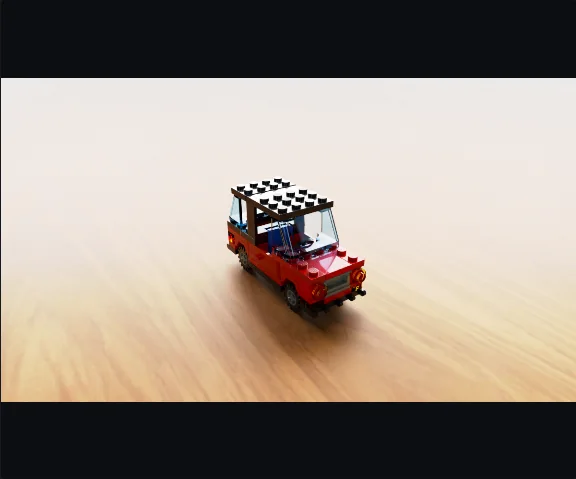
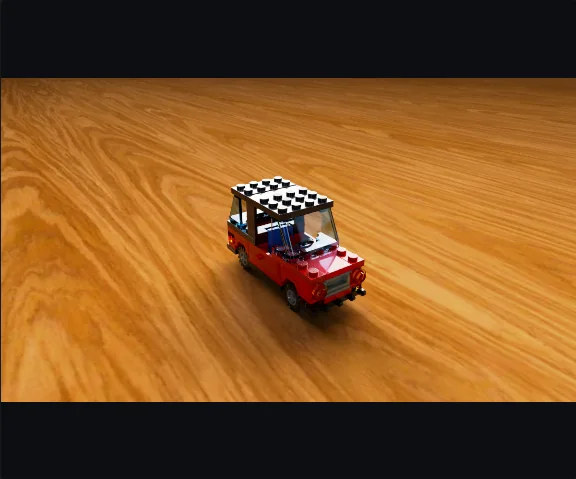
The render page, its table picture and RENDERING.md say the table keeps its colour, and why it paled
The page's words and picture said the table pales towards the light. That was the bug, now fixed, so
the picture is taken again from the app and the words say the wood, leather and terrazzo keep their
colour. RENDERING.md 5r records the proof: meter and white balance ruled out, the table's glare the
cause. The verify recipe names the colour check source_probe now makes.

diff --git a/docs/RENDERING.md b/docs/RENDERING.md
@@ -2303,15 +2303,30 @@ it over its measured mismatch on grey (+4.5 stops against +0.95): matching
 the numbers is not what the judge rewards. The thinner logo (strokes
 with gaps between the letters, one gate a part) was read as outlined lettering and taken out.
 
-**What is left.** A table drawn this way pales towards the source, most on
-the whole car at the app's camera (bench/results/photoreal14-2026-11-23/
-probes/source_pair). Likely, not yet proven by a run: the white card
-is metered round the model, in its shade when lit from behind, so the
-picture is exposed up and the table, drawn at its own colour, goes
-towards white. The photographs keep their
-tables at their own level. The light-and-shadow tell is still named on
-92% of verdicts and 28 of 80 is short of 32: the next lever is the
-metering with the source on (`StudioRender._meter_card`).
+**The table kept its colour** (photoreal14b). Drawn first, the tables paled
+towards the source, most on the whole car at the app's camera: wood and
+terrazzo nearly white. Proved by the app's own renderer, the car on each
+table at 1280x720 and 256 samples, five ways (bench/results/
+photoreal14-2026-11-23/spill/): not the white balance (off, nothing moved:
+within 0.3), not the meter (its exposure and card colour the same whether
+the table mirrors the source or not), but the table's own gloss. The white
+card the exposure is metered on is matte, so a table mirroring a 90 by 50
+degree source was brighter than the card says white is: its glare as bright
+again as its own colour. Schlick's glance term kept it even with the
+table's specular at 0, so the table now takes only the source's diffuse
+light, and the bounce leaves the source to the light's pick for it
+(`on_table`, `SOURCE_SPILL` 0). At the meter's own level, the table's
+colour is within CIEDE2000 4.6, 6.7, 3.5 and 3.9 of the source off (desk,
+wood, leather, terrazzo; 7.4, 29, 39 and 30 mirrored), and a black brick's
+top still mirrors it: +7.45 stops over its side, +7.42 in the photograph.
+Beside the car on the side its lamp stands, the source-off picture is
+brighter than its own colour, in a pool of the lamp's light; a table lit by
+the source has no pool, so a patch there is darker than off (CIEDE2000 desk
+5.1, wood 16.5, terrazzo 16.7, leather 20.3). The judge's pools above were drawn with the table
+mirroring the source.
+
+The light-and-shadow tell is still named on 92% of verdicts, and 28 of 80
+is short of 32.
 
 ## 6. Web and desktop
 

diff --git a/docs-site/render.md b/docs-site/render.md
@@ -73,9 +73,9 @@ Under **Background**, the model can stand on something real rather than a studio
 
 At Best, in the Product look, a staged picture is lit as a photograph is: by a soft light standing near the model rather than far away, so the side nearer it is lighter and the surface darkens away from it. The wood, the leather and the terrazzo show their own grain, the model's shadow falls on it, and past a table's far edge is the room, out of focus.
 
-![The car rendered at Best in the Product look on a wooden table, path traced and lit from behind as by a window: the black studs on its roof catch white highlights, its shadow falls forward onto the grain, and the table pales towards the back.](/docs/img/render-table.webp "On a wooden table at Best: lit from behind, as by a window, so glossy tops shine as a photograph's do.")
+![The car rendered at Best in the Product look on a wooden table, path traced and lit from behind as by a window: the black studs on its roof catch white highlights, its shadow falls forward onto the grain, and the wood keeps its own colour.](/docs/img/render-table.webp "On a wooden table at Best: lit from behind, as by a window, so glossy tops shine as a photograph's do.")
 
-On a desk, a table, a leather pad or terrazzo, a large bright light stands behind the model, as a window or a softbox behind a photographed model does. Glossy tops mirror it, so a black brick's top shines nearly white while its sides stay dark, the way they do in a photograph. It rises with the camera, so a top seen from high up still catches it, and the table pales towards it as a backlit table does. On the seamless paper the studio's own lights are kept.
+On a desk, a table, a leather pad or terrazzo, a large bright light stands behind the model, as a window or a softbox behind a photographed model does. Glossy tops mirror it, so a black brick's top shines nearly white while its sides stay dark, the way they do in a photograph. It rises with the camera, so a top seen from high up still catches it. It lights the table without shining in it, so the wood, the leather and the terrazzo keep their own colour. On the seamless paper the studio's own lights are kept.
 
 In a browser, and wherever Best is not path traced, a staged picture is drawn on the stage's colour alone.
 

diff --git a/.claude/skills/verify/features/view.md b/.claude/skills/verify/features/view.md
@@ -3323,12 +3323,17 @@ picture the assistant is shown.
   none in the tent. A way towards it passes the sweep (path_tracer.glsl
   `lit_mask`), as a softbox stands in front of the paper. Judged alone beside
   the photographs: 28 of 80 called a photograph against 19 with it off, the
-  close-ups 0.515 against 0.394, both draws and both rounds ahead. Check:
+  close-ups 0.515 against 0.394, both draws and both rounds ahead. A table
+  is lit by it but does not mirror it (`SOURCE_SPILL` 0, `source_spill`;
+  path_tracer.glsl `on_table`): mirrored, its glare drew wood and terrazzo
+  nearly white. Check:
   `tools/probe.sh source_probe` opens the car, File, Render…, Best, Product,
   each table and the seamless, Picture at the dialog's size: on each table
-  the source on and the picture changed from it asked off, none on the
-  seamless, the car on each table at Best within 2.9 s; under Compatibility
-  it says Best has no path tracer and so no source.
+  the source on and the picture changed from it asked off, the table's own
+  colour where the meter reads its card within CIEDE2000 8 of the source off
+  (the paling was 29 to 39), none on the seamless, the car on each table at
+  Best within 2.9 s; under Compatibility it says Best has no path tracer and
+  so no source.
   `tools/probe.sh photoreal_probe -- --tag=T --without=source` draws the
   parent commit's pictures byte for byte; `tools/photoreal/reflect_measure.py
   LABEL=DIR` measures each close-up's top against its side and its edges'
